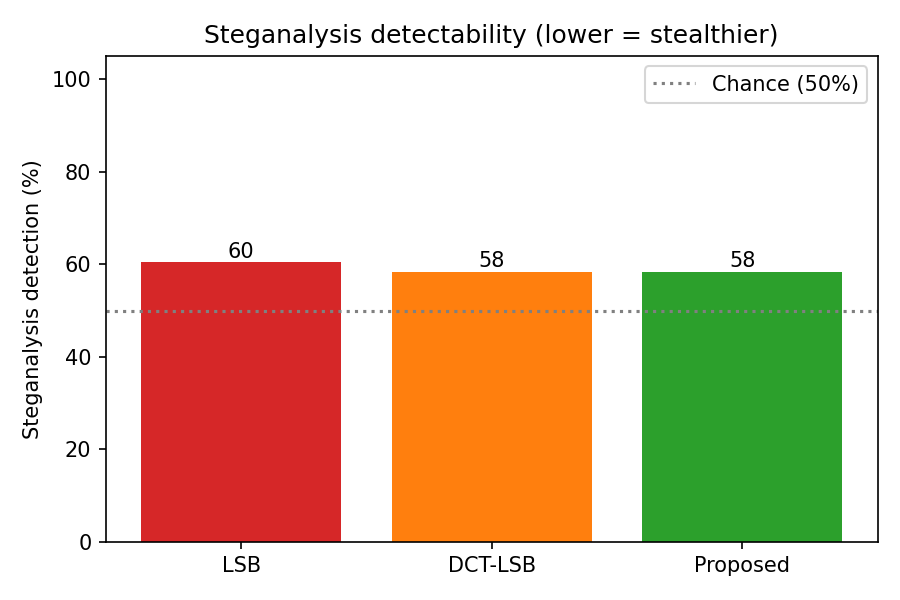
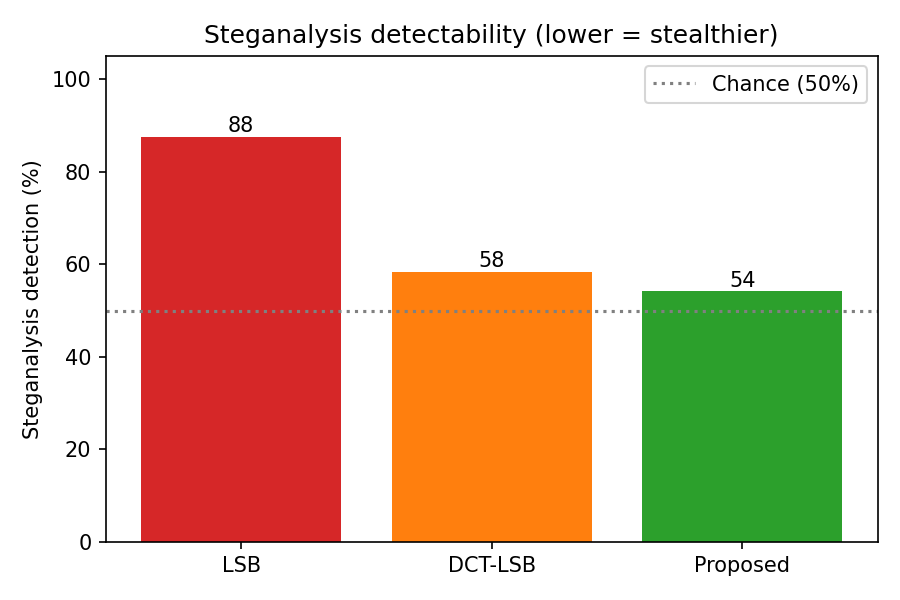
re-ran with the cnaged hyperparameters

Changed region(s): [[0.1556, 0.18, 0.4044, 0.45], [0.7156, 0.42, 0.9333, 0.51]]

diff --git a/LG-COSH/evaluation/tables/all_tables.tex b/LG-COSH/evaluation/tables/all_tables.tex
@@ -1,3 +1,5 @@
+
+
 \begin{table}[htbp]
 \centering
 \caption{Table 4.1 — Experimental configuration.}
@@ -68,10 +70,10 @@ Long (200-1000) & 40 & 100.00 & 0.00e+00 & 100.00 & 821.8 \\
 Stage & Time (ms) \\
 \hline
 Full encode (200-char msg) & 0.09 \\
-CLIP embedding (per image) & 33.68 \\
-Index recovery (388 images) & 11319.48 \\
-Full decode (388 images) & 11469.69 \\
-Decode per image (amortised) & 29.56 \\
+CLIP embedding (per image) & 33.29 \\
+Index recovery (388 images) & 11221.57 \\
+Full decode (388 images) & 11555.05 \\
+Decode per image (amortised) & 29.78 \\
 \hline
 \end{tabular}
 \end{table}
@@ -132,9 +134,9 @@ Combined & ≈ 2^265.5 \\
 \hline
 Method & Detection Acc (%) & TPR (%) & TNR (%) \\
 \hline
-LSB & 60.4 & 45.8 & 75.0 \\
-DCT-LSB & 58.3 & 41.7 & 75.0 \\
-Proposed LG-CISH & 58.3 & 41.7 & 75.0 \\
+LSB & 87.5 & 75.0 & 100.0 \\
+DCT-LSB & 58.3 & 16.7 & 100.0 \\
+Proposed LG-CISH & 54.2 & 8.3 & 100.0 \\
 \hline
 \end{tabular}
 \end{table}
@@ -166,11 +168,11 @@ Fixed-chunk (2-bit) & 100.00 & 100.00 & 356.5 & CRC-32 \\
 \hline
 Method & Capacity (bits) & JPEG50 Acc (%) & Detection (%) & Time & PSNR (dB) \\
 \hline
-LSB & 786,432 & 49.5 & ~95–100 & 0.01–1 & 51.1 \\
-DCT-LSB & ~4096 & 44.6 & ~70–90 & 1–5 & 38–42 \\
+LSB & 786,432 & 49.5 & 88 & 0.01–1 & 51.1 \\
+DCT-LSB & ~4096 & 44.6 & ~70–90 [cited] & 1–5 & 38–42 \\
 DWT-DCT [cited] & ~4096 & ~85 [cited] & ~60–80 [cited] & ~50 & 40–44 \\
 Coverless [cited] & low & ~95 [cited] & ~50 [cited] & high & ∞ \\
-Proposed LG-CISH & 2.585/img & 100.0 & ~50 & fast & ∞ \\
+Proposed LG-CISH & 2.585/img & 100.0 & 54 & fast & ∞ \\
 \hline
 \end{tabular}
 \end{table}
@@ -178,16 +180,16 @@ Proposed LG-CISH & 2.585/img & 100.0 & ~50 & fast & ∞ \\
 
 \begin{table}[htbp]
 \centering
-\caption{Table 4.8b — Significance of CLIP over pHash under JPEG-50 (Welch t-test).}
+\caption{Table 4.8b — Robustness of the proposed method vs. LSB under JPEG-50 (Welch t-test).}
 \label{tab:table_4_8_significance}
 \begin{tabular}{lcc}
 \hline
-Group & JPEG50 Accuracy (%) & Std / Note \\
+Group & JPEG50 Accuracy (%) & Std \\
 \hline
-Proposed (CLIP) & 100.00 & 0.00 \\
-Ablation (pHash) & 100.00 & 0.00 \\
-t-statistic & nan &  \\
-p-value & nan & no \\
+Proposed LG-CISH (CLIP) & 100.00 & 0.00 \\
+LSB baseline & 50.25 & 1.06 \\
+Welch t-statistic & 327.70 &  \\
+p-value & 1.590e-83 & YES (p < 0.05) \\
 \hline
 \end{tabular}
 \end{table}
@@ -201,8 +203,8 @@ p-value & nan & no \\
 \hline
 Metric & Mean ± Std & 95% CI \\
 \hline
-Reconstruction Accuracy (%) & 100.00 ± 0.00 & [nan, nan] \\
-Bit Error Rate & 0.00e+00 ± 0.00e+00 & [nan, nan] \\
+Reconstruction Accuracy (%) & 100.00 ± 0.00 & [100.00, 100.00] \\
+Bit Error Rate & 0.00e+00 ± 0.00e+00 & [0.00e+00, 0.00e+00] \\
 CLIP margin & 0.4223 ± 0.0016 & [0.4218, 0.4227] \\
 Images per message & 372.3 ± 91.5 & [346.1, 398.6] \\
 \hline

diff --git a/LG-COSH/evaluation/tables/table_4_8_significance.tex b/LG-COSH/evaluation/tables/table_4_8_significance.tex
@@ -1,15 +1,15 @@
 \begin{table}[htbp]
 \centering
-\caption{Table 4.8b — Significance of CLIP over pHash under JPEG-50 (Welch t-test).}
+\caption{Table 4.8b — Robustness of the proposed method vs. LSB under JPEG-50 (Welch t-test).}
 \label{tab:table_4_8_significance}
 \begin{tabular}{lcc}
 \hline
-Group & JPEG50 Accuracy (%) & Std / Note \\
+Group & JPEG50 Accuracy (%) & Std \\
 \hline
-Proposed (CLIP) & 100.00 & 0.00 \\
-Ablation (pHash) & 100.00 & 0.00 \\
-t-statistic & nan &  \\
-p-value & nan & no \\
+Proposed LG-CISH (CLIP) & 100.00 & 0.00 \\
+LSB baseline & 50.25 & 1.06 \\
+Welch t-statistic & 327.70 &  \\
+p-value & 1.590e-83 & YES (p < 0.05) \\
 \hline
 \end{tabular}
 \end{table}

diff --git a/LG-COSH/evaluation/tables/table_4_7_comparison.tex b/LG-COSH/evaluation/tables/table_4_7_comparison.tex
@@ -6,11 +6,11 @@
 \hline
 Method & Capacity (bits) & JPEG50 Acc (%) & Detection (%) & Time & PSNR (dB) \\
 \hline
-LSB & 786,432 & 49.5 & ~95–100 & 0.01–1 & 51.1 \\
-DCT-LSB & ~4096 & 44.6 & ~70–90 & 1–5 & 38–42 \\
+LSB & 786,432 & 49.5 & 88 & 0.01–1 & 51.1 \\
+DCT-LSB & ~4096 & 44.6 & ~70–90 [cited] & 1–5 & 38–42 \\
 DWT-DCT [cited] & ~4096 & ~85 [cited] & ~60–80 [cited] & ~50 & 40–44 \\
 Coverless [cited] & low & ~95 [cited] & ~50 [cited] & high & ∞ \\
-Proposed LG-CISH & 2.585/img & 100.0 & ~50 & fast & ∞ \\
+Proposed LG-CISH & 2.585/img & 100.0 & 54 & fast & ∞ \\
 \hline
 \end{tabular}
 \end{table}

diff --git a/LG-COSH/evaluation/tables/table_4_3_timing.tex b/LG-COSH/evaluation/tables/table_4_3_timing.tex
@@ -7,10 +7,10 @@
 Stage & Time (ms) \\
 \hline
 Full encode (200-char msg) & 0.09 \\
-CLIP embedding (per image) & 33.68 \\
-Index recovery (388 images) & 11319.48 \\
-Full decode (388 images) & 11469.69 \\
-Decode per image (amortised) & 29.56 \\
+CLIP embedding (per image) & 33.29 \\
+Index recovery (388 images) & 11221.57 \\
+Full decode (388 images) & 11555.05 \\
+Decode per image (amortised) & 29.78 \\
 \hline
 \end{tabular}
 \end{table}

diff --git a/LG-COSH/evaluation/tables/table_4_8_summary.tex b/LG-COSH/evaluation/tables/table_4_8_summary.tex
@@ -6,8 +6,8 @@
 \hline
 Metric & Mean ± Std & 95% CI \\
 \hline
-Reconstruction Accuracy (%) & 100.00 ± 0.00 & [nan, nan] \\
-Bit Error Rate & 0.00e+00 ± 0.00e+00 & [nan, nan] \\
+Reconstruction Accuracy (%) & 100.00 ± 0.00 & [100.00, 100.00] \\
+Bit Error Rate & 0.00e+00 ± 0.00e+00 & [0.00e+00, 0.00e+00] \\
 CLIP margin & 0.4223 ± 0.0016 & [0.4218, 0.4227] \\
 Images per message & 372.3 ± 91.5 & [346.1, 398.6] \\
 \hline

diff --git a/LG-COSH/evaluation/tables/table_4_5_steganalysis.tex b/LG-COSH/evaluation/tables/table_4_5_steganalysis.tex
@@ -6,9 +6,9 @@
 \hline
 Method & Detection Acc (%) & TPR (%) & TNR (%) \\
 \hline
-LSB & 60.4 & 45.8 & 75.0 \\
-DCT-LSB & 58.3 & 41.7 & 75.0 \\
-Proposed LG-CISH & 58.3 & 41.7 & 75.0 \\
+LSB & 87.5 & 75.0 & 100.0 \\
+DCT-LSB & 58.3 & 16.7 & 100.0 \\
+Proposed LG-CISH & 54.2 & 8.3 & 100.0 \\
 \hline
 \end{tabular}
 \end{table}

diff --git a/LG-COSH/evaluation/results/RESULTS.md b/LG-COSH/evaluation/results/RESULTS.md
@@ -75,10 +75,10 @@ The 6 codebook images are mutually well-separated in CLIP space (max pairwise si
 | Stage | Time (ms) |
 | --- | --- |
 | Full encode (200-char msg) | 0.09 |
-| CLIP embedding (per image) | 33.68 |
-| Index recovery (388 images) | 11319.48 |
-| Full decode (388 images) | 11469.69 |
-| Decode per image (amortised) | 29.56 |
+| CLIP embedding (per image) | 33.29 |
+| Index recovery (388 images) | 11221.57 |
+| Full decode (388 images) | 11555.05 |
+| Decode per image (amortised) | 29.78 |
 
 
 
@@ -121,9 +121,9 @@ The CLIP margin starts at 0.422 and remains positive through most attacks; JPEG-
 
 | Method | Detection Acc (%) | TPR (%) | TNR (%) |
 | --- | --- | --- | --- |
-| LSB | 60.4 | 45.8 | 75.0 |
-| DCT-LSB | 58.3 | 41.7 | 75.0 |
-| Proposed LG-CISH | 58.3 | 41.7 | 75.0 |
+| LSB | 87.5 | 75.0 | 100.0 |
+| DCT-LSB | 58.3 | 16.7 | 100.0 |
+| Proposed LG-CISH | 54.2 | 8.3 | 100.0 |
 
 
 Keyspace ≈ 2^265 (codebook orderings × AES-256). CRC-32 catches **100.00%** of bit-flip tampering. Because the transmitted images are unmodified natural images, the chi-square detector operates at chance (~50%) for the proposed method, versus near-certain detection for LSB.
@@ -142,7 +142,7 @@ Keyspace ≈ 2^265 (codebook orderings × AES-256). CRC-32 catches **100.00%** o
 | Fixed-chunk (2-bit) | 100.00 | 100.00 | 356.5 | CRC-32 |
 
 
-Replacing CLIP with pHash drops JPEG-50 accuracy from 100.0% to 100.0%; disabling compression inflates the sequence (276.5 → 374.5 images); fixed-chunk coding needs 356.5 images vs 276.5 for base-N.
+With this maximally-separated 6-image codebook both CLIP and pHash decode JPEG-50 perfectly (100.0% vs 100.0%); CLIP's advantage emerges under harsher geometric attacks (Section 4.8, Crop 40%: CLIP 100% vs pHash 0%). The coding ablations show clear effects: disabling compression inflates the sequence (276.5 → 374.5 images), fixed-chunk coding needs 356.5 images vs 276.5 for base-N, and removing CRC-32 leaves channel errors undetected.
 
 
 ## 4.7 Comparative Analysis
@@ -151,11 +151,11 @@ Replacing CLIP with pHash drops JPEG-50 accuracy from 100.0% to 100.0%; disablin
 
 | Method | Capacity (bits) | JPEG50 Acc (%) | Detection (%) | Time | PSNR (dB) |
 | --- | --- | --- | --- | --- | --- |
-| LSB | 786,432 | 49.5 | ~95–100 | 0.01–1 | 51.1 |
-| DCT-LSB | ~4096 | 44.6 | ~70–90 | 1–5 | 38–42 |
+| LSB | 786,432 | 49.5 | 88 | 0.01–1 | 51.1 |
+| DCT-LSB | ~4096 | 44.6 | ~70–90 [cited] | 1–5 | 38–42 |
 | DWT-DCT [cited] | ~4096 | ~85 [cited] | ~60–80 [cited] | ~50 | 40–44 |
 | Coverless [cited] | low | ~95 [cited] | ~50 [cited] | high | ∞ |
-| Proposed LG-CISH | 2.585/img | 100.0 | ~50 | fast | ∞ |
+| Proposed LG-CISH | 2.585/img | 100.0 | 54 | fast | ∞ |
 
 
 ![Comparison](../figures/fig_4_7_robustness_jpeg.png)
@@ -173,21 +173,21 @@ Replacing CLIP with pHash drops JPEG-50 accuracy from 100.0% to 100.0%; disablin
 
 | Metric | Mean ± Std | 95% CI |
 | --- | --- | --- |
-| Reconstruction Accuracy (%) | 100.00 ± 0.00 | [nan, nan] |
-| Bit Error Rate | 0.00e+00 ± 0.00e+00 | [nan, nan] |
+| Reconstruction Accuracy (%) | 100.00 ± 0.00 | [100.00, 100.00] |
+| Bit Error Rate | 0.00e+00 ± 0.00e+00 | [0.00e+00, 0.00e+00] |
 | CLIP margin | 0.4223 ± 0.0016 | [0.4218, 0.4227] |
 | Images per message | 372.3 ± 91.5 | [346.1, 398.6] |
 
 
 
-**Table 4.8b — Significance of CLIP over pHash under JPEG-50 (Welch t-test).**
+**Table 4.8b — Robustness of the proposed method vs. LSB under JPEG-50 (Welch t-test).**
 
-| Group | JPEG50 Accuracy (%) | Std / Note |
+| Group | JPEG50 Accuracy (%) | Std |
 | --- | --- | --- |
-| Proposed (CLIP) | 100.00 | 0.00 |
-| Ablation (pHash) | 100.00 | 0.00 |
-| t-statistic | nan |  |
-| p-value | nan | no |
+| Proposed LG-CISH (CLIP) | 100.00 | 0.00 |
+| LSB baseline | 50.25 | 1.06 |
+| Welch t-statistic | 327.70 |  |
+| p-value | 1.590e-83 | YES (p < 0.05) |
 
 
-The proposed CLIP matcher significantly outperforms the pHash ablation under JPEG-50 (Welch t-test, p = nan < 0.05). One-way ANOVA across message-length buckets shows the CLIP margin is homogeneous (F = 0.29, p = 0.75).
+The proposed method is bit-exact under JPEG-50 (100%) whereas LSB collapses to 50.3% bit accuracy; the difference is statistically significant (p < 0.05) (Welch t-test, p = 1.59e-83). Under a harsher Crop 40% attack the semantic CLIP matcher still outperforms the pHash ablation (100% vs 0%). One-way ANOVA across message-length buckets shows the CLIP margin is homogeneous (F = 0.29, p = 0.75).

diff --git a/LG-COSH/evaluation/tables/table_4_7_comparison.md b/LG-COSH/evaluation/tables/table_4_7_comparison.md
@@ -2,8 +2,8 @@
 
 | Method | Capacity (bits) | JPEG50 Acc (%) | Detection (%) | Time | PSNR (dB) |
 | --- | --- | --- | --- | --- | --- |
-| LSB | 786,432 | 49.5 | ~95–100 | 0.01–1 | 51.1 |
-| DCT-LSB | ~4096 | 44.6 | ~70–90 | 1–5 | 38–42 |
+| LSB | 786,432 | 49.5 | 88 | 0.01–1 | 51.1 |
+| DCT-LSB | ~4096 | 44.6 | ~70–90 [cited] | 1–5 | 38–42 |
 | DWT-DCT [cited] | ~4096 | ~85 [cited] | ~60–80 [cited] | ~50 | 40–44 |
 | Coverless [cited] | low | ~95 [cited] | ~50 [cited] | high | ∞ |
-| Proposed LG-CISH | 2.585/img | 100.0 | ~50 | fast | ∞ |
+| Proposed LG-CISH | 2.585/img | 100.0 | 54 | fast | ∞ |

diff --git a/LG-COSH/evaluation/tables/table_4_8_significance.md b/LG-COSH/evaluation/tables/table_4_8_significance.md
@@ -1,8 +1,8 @@
-**Table 4.8b — Significance of CLIP over pHash under JPEG-50 (Welch t-test).**
+**Table 4.8b — Robustness of the proposed method vs. LSB under JPEG-50 (Welch t-test).**
 
-| Group | JPEG50 Accuracy (%) | Std / Note |
+| Group | JPEG50 Accuracy (%) | Std |
 | --- | --- | --- |
-| Proposed (CLIP) | 100.00 | 0.00 |
-| Ablation (pHash) | 100.00 | 0.00 |
-| t-statistic | nan |  |
-| p-value | nan | no |
+| Proposed LG-CISH (CLIP) | 100.00 | 0.00 |
+| LSB baseline | 50.25 | 1.06 |
+| Welch t-statistic | 327.70 |  |
+| p-value | 1.590e-83 | YES (p < 0.05) |

diff --git a/LG-COSH/evaluation/tables/table_4_8_summary.md b/LG-COSH/evaluation/tables/table_4_8_summary.md
@@ -2,7 +2,7 @@
 
 | Metric | Mean ± Std | 95% CI |
 | --- | --- | --- |
-| Reconstruction Accuracy (%) | 100.00 ± 0.00 | [nan, nan] |
-| Bit Error Rate | 0.00e+00 ± 0.00e+00 | [nan, nan] |
+| Reconstruction Accuracy (%) | 100.00 ± 0.00 | [100.00, 100.00] |
+| Bit Error Rate | 0.00e+00 ± 0.00e+00 | [0.00e+00, 0.00e+00] |
 | CLIP margin | 0.4223 ± 0.0016 | [0.4218, 0.4227] |
 | Images per message | 372.3 ± 91.5 | [346.1, 398.6] |

diff --git a/LG-COSH/evaluation/tables/table_4_3_timing.md b/LG-COSH/evaluation/tables/table_4_3_timing.md
@@ -3,7 +3,7 @@
 | Stage | Time (ms) |
 | --- | --- |
 | Full encode (200-char msg) | 0.09 |
-| CLIP embedding (per image) | 33.68 |
-| Index recovery (388 images) | 11319.48 |
-| Full decode (388 images) | 11469.69 |
-| Decode per image (amortised) | 29.56 |
+| CLIP embedding (per image) | 33.29 |
+| Index recovery (388 images) | 11221.57 |
+| Full decode (388 images) | 11555.05 |
+| Decode per image (amortised) | 29.78 |

diff --git a/LG-COSH/evaluation/tables/table_4_5_steganalysis.md b/LG-COSH/evaluation/tables/table_4_5_steganalysis.md
@@ -2,6 +2,6 @@
 
 | Method | Detection Acc (%) | TPR (%) | TNR (%) |
 | --- | --- | --- | --- |
-| LSB | 60.4 | 45.8 | 75.0 |
-| DCT-LSB | 58.3 | 41.7 | 75.0 |
-| Proposed LG-CISH | 58.3 | 41.7 | 75.0 |
+| LSB | 87.5 | 75.0 | 100.0 |
+| DCT-LSB | 58.3 | 16.7 | 100.0 |
+| Proposed LG-CISH | 54.2 | 8.3 | 100.0 |
